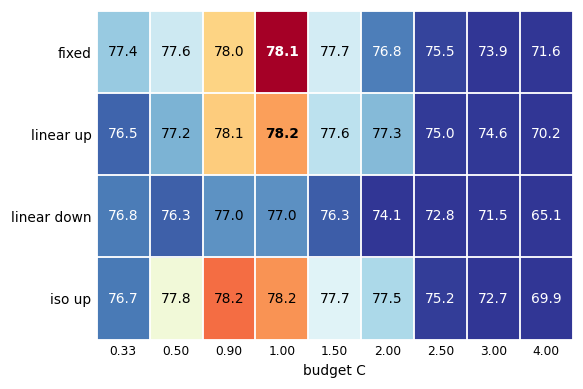
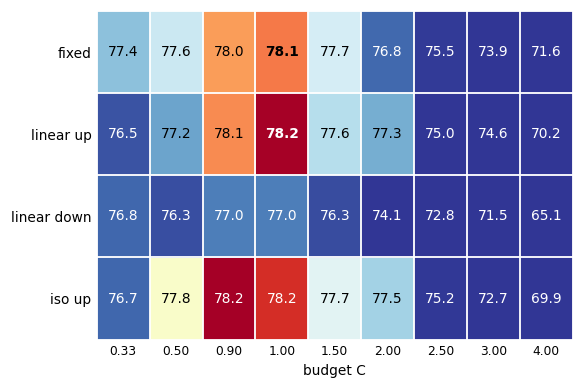
E12 heatmaps: colors follow displayed multi-seed means (regenerated with existing data)

diff --git a/e12_multi_setting/e12_heatmap.py b/e12_multi_setting/e12_heatmap.py
@@ -89,10 +89,11 @@ def make_heatmaps(include_mlp=False):
         # Exponential-in-value scale anchored at the max: closely-spaced top
         # values (76-79.5) each get a clearly distinct shade, while the
         # collapse tail saturates to deep blue. a = 1 / (max - p75) so the
-        # top quartile of values spans ~63% of the colormap.
-        flat = mat[~np.isnan(mat)]
-        hi = float(np.nanmax(mat))
-        vmin = float(np.nanmin(mat))
+        # top quartile of values spans ~63% of the colormap. Colors follow
+        # the DISPLAYED value (multi-seed mean where applied).
+        flat = display[~np.isnan(display)]
+        hi = float(np.nanmax(flat))
+        vmin = float(np.nanmin(flat))
         span_top = max(hi - float(np.percentile(flat, 75)), 0.3)
         a = 1.0 / span_top
         R = hi - vmin
@@ -100,7 +101,7 @@ def make_heatmaps(include_mlp=False):
             R = 1.0
         exp_mR = np.exp(-a * R)
         den = 1.0 - exp_mR
-        s = _exp_s(mat, a, hi, exp_mR, den)
+        s = _exp_s(display, a, hi, exp_mR, den)
 
         ncol = len(cols)
         fig, ax = plt.subplots(figsize=(max(3.2, ncol * 0.62),
